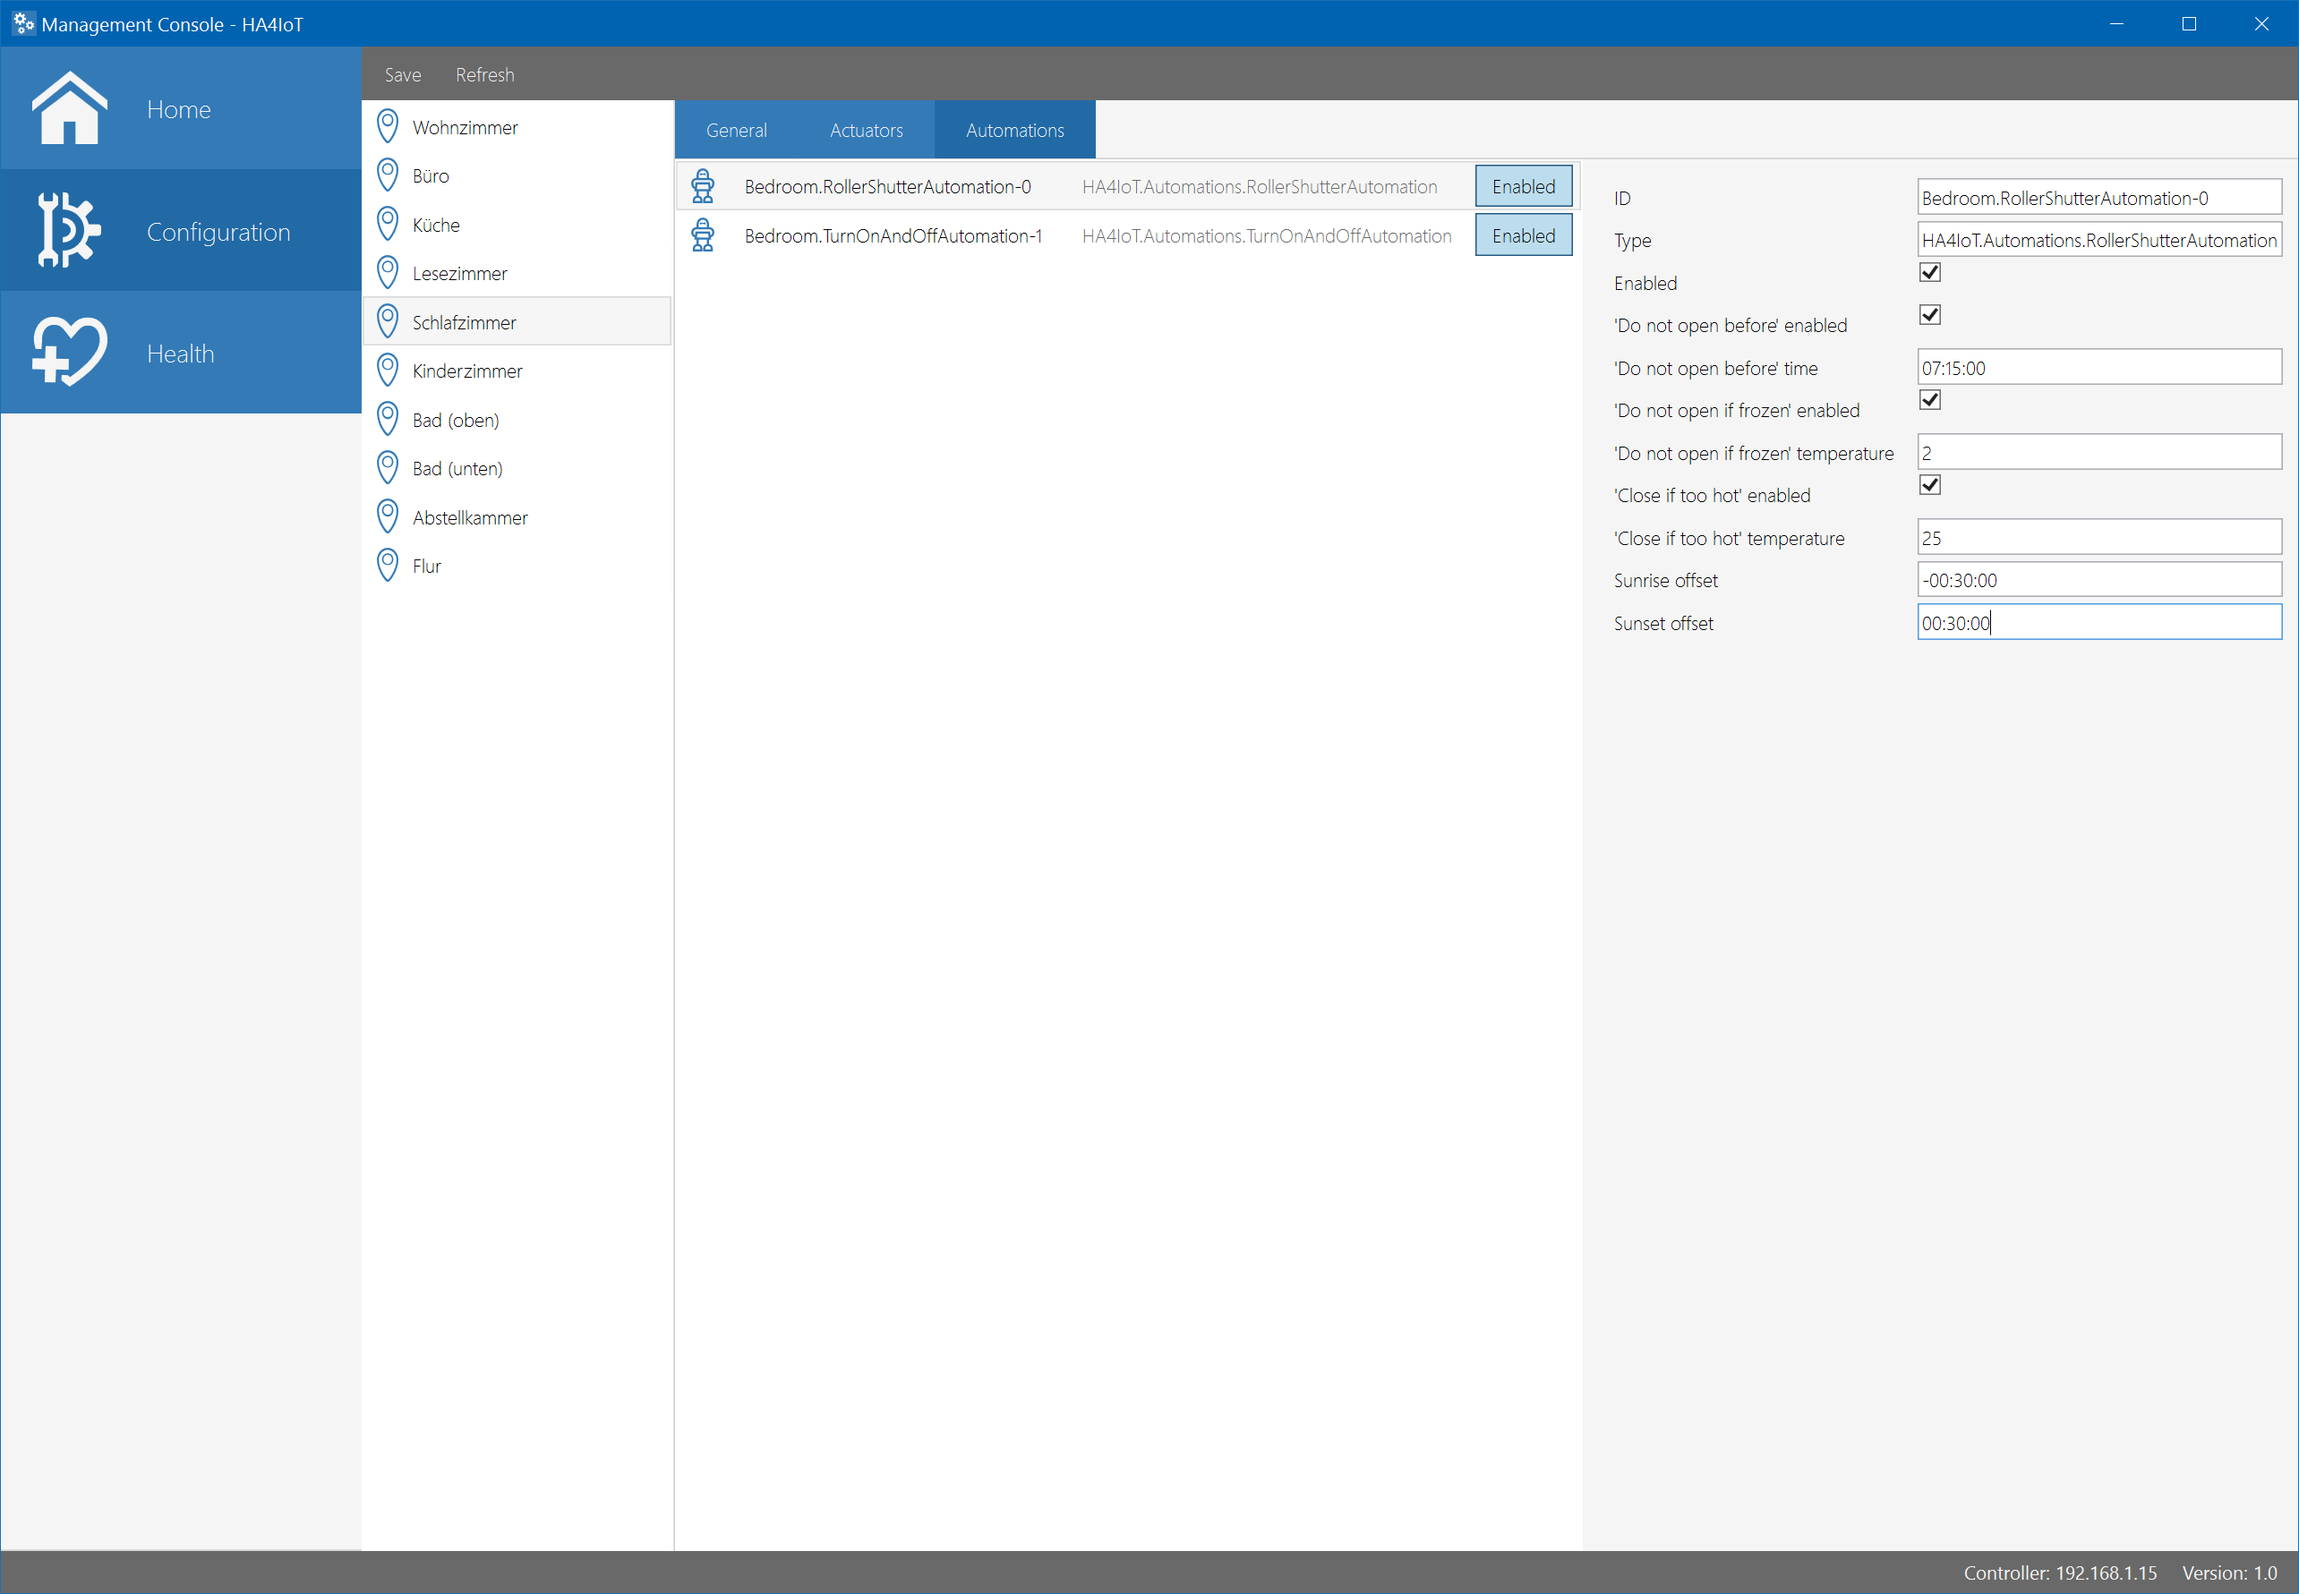
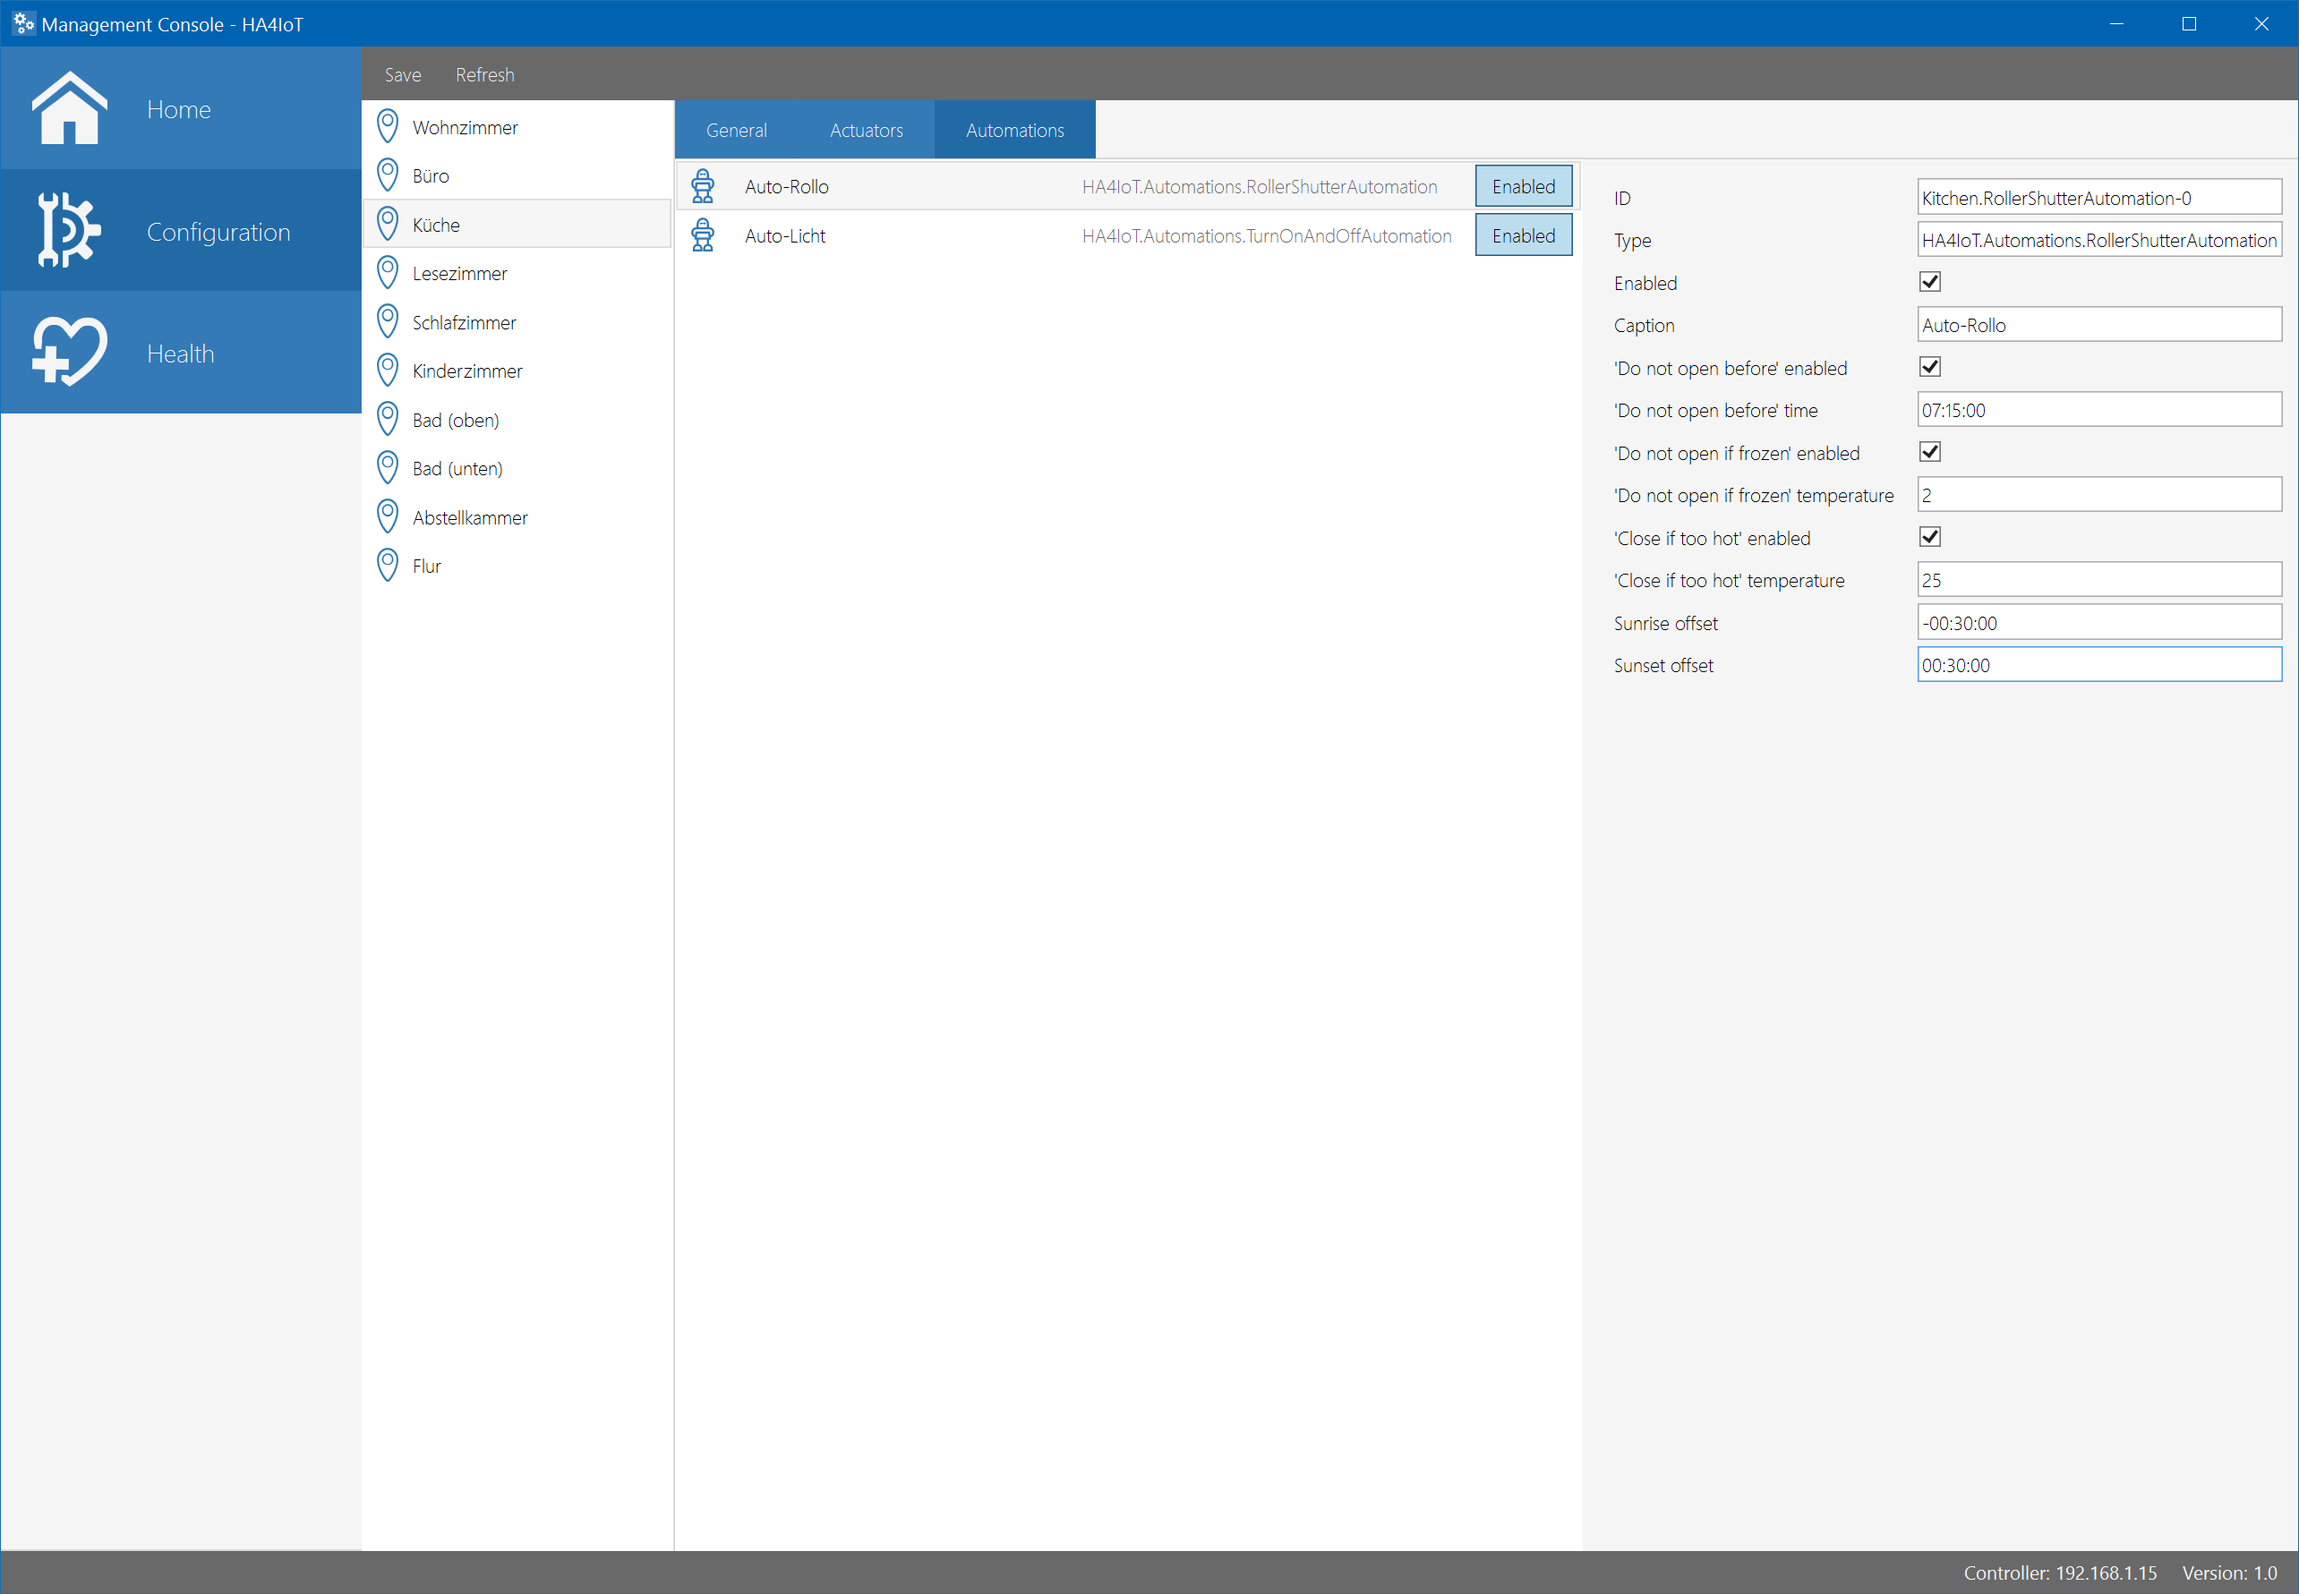
Update documentation files

diff --git a/Tools/HA4IoT.ManagementConsole/Configuration/Views/ConfigurationTabView.xaml b/Tools/HA4IoT.ManagementConsole/Configuration/Views/ConfigurationTabView.xaml
@@ -199,9 +199,10 @@
                                                               Fill="#FF337AB7"
                                                               Stretch="Uniform" />
                                                     </StackPanel>
+
                                                     <Label Grid.Column="1"
                                                            Margin="10,0,0,0"
-                                                           Content="{Binding Id,
+                                                           Content="{Binding Caption.Value,
                                                                              Mode=OneWay}" />
 
                                                     <Label Grid.Column="2"

diff --git a/Tools/HA4IoT.ManagementConsole/Configuration/AutomationParser.cs b/Tools/HA4IoT.ManagementConsole/Configuration/AutomationParser.cs
@@ -36,6 +36,7 @@ namespace HA4IoT.ManagementConsole.Configuration
             item.Settings.AddRange(GenerateGeneralSettings());
 
             item.IsEnabled = (BoolSettingVM)item.Settings.First(s => s.Key == "IsEnabled");
+            item.Caption = (StringSettingVM)item.Settings.First(s => s.Key == "Caption");
 
             switch (_type)
             {
@@ -51,22 +52,22 @@ namespace HA4IoT.ManagementConsole.Configuration
 
         private IEnumerable<SettingItemVM> GenerateRollerShutterAutoamtionSettings()
         {
-            yield return BoolSettingVM.CreateFrom(_appSettings, "DoNotOpenBeforeIsEnabled", true, "'Do not open before' enabled");
-            yield return TimeSpanSettingVM.CreateFrom(_appSettings, "DoNotOpenBeforeTime", TimeSpan.Parse("07:15:00"), "'Do not open before' time");
+            yield return BoolSettingVM.CreateFrom(_appSettings, "DoNotOpenBeforeIsEnabled", true, "'Do not open before' enabled").WithIsNoAppSetting();
+            yield return TimeSpanSettingVM.CreateFrom(_appSettings, "DoNotOpenBeforeTime", TimeSpan.Parse("07:15:00"), "'Do not open before' time").WithIsNoAppSetting();
 
-            yield return BoolSettingVM.CreateFrom(_appSettings, "DoNotOpenIfTooColdIsEnabled", true, "'Do not open if frozen' enabled");
-            yield return FloatSettingVM.CreateFrom(_appSettings, "DoNotOpenIfTooColdTemperature", 2, "'Do not open if frozen' temperature");
+            yield return BoolSettingVM.CreateFrom(_appSettings, "DoNotOpenIfTooColdIsEnabled", true, "'Do not open if frozen' enabled").WithIsNoAppSetting();
+            yield return FloatSettingVM.CreateFrom(_appSettings, "DoNotOpenIfTooColdTemperature", 2, "'Do not open if frozen' temperature").WithIsNoAppSetting();
 
-            yield return BoolSettingVM.CreateFrom(_appSettings, "AutoCloseIfTooHotIsEnabled", true, "'Close if too hot' enabled");
-            yield return FloatSettingVM.CreateFrom(_appSettings, "AutoCloseIfTooHotTemperaure", 25F, "'Close if too hot' temperature");
+            yield return BoolSettingVM.CreateFrom(_appSettings, "AutoCloseIfTooHotIsEnabled", true, "'Close if too hot' enabled").WithIsNoAppSetting();
+            yield return FloatSettingVM.CreateFrom(_appSettings, "AutoCloseIfTooHotTemperaure", 25F, "'Close if too hot' temperature").WithIsNoAppSetting();
 
             yield return
                 TimeSpanSettingVM.CreateFrom(_appSettings, "OpenOnSunriseOffset", TimeSpan.Parse("-00:30:00"),
-                    "Sunrise offset");
+                    "Sunrise offset").WithIsNoAppSetting();
 
             yield return
                 TimeSpanSettingVM.CreateFrom(_appSettings, "CloseOnSunsetOffset", TimeSpan.Parse("00:30:00"),
-                    "Sunset offset");
+                    "Sunset offset").WithIsNoAppSetting();
         }
 
         private IEnumerable<SettingItemVM> GenerateGeneralSettings()
@@ -74,6 +75,7 @@ namespace HA4IoT.ManagementConsole.Configuration
             yield return new StringSettingVM("Id", _source.Name, "ID").WithIsReadOnly();
             yield return new StringSettingVM("Type", _type, "Type").WithIsReadOnly();
             yield return BoolSettingVM.CreateFrom(_settings, "IsEnabled", true, "Enabled").WithIsNoAppSetting();
+            yield return StringSettingVM.CreateFrom(_appSettings, "Caption", _source.Name, "Caption");
         }
     }
 }

diff --git a/SDK/HA4IoT.Automations/AutomationSettings.cs b/SDK/HA4IoT.Automations/AutomationSettings.cs
@@ -1,5 +1,6 @@
 using System;
 using System.IO;
+using Windows.Data.Json;
 using Windows.Storage;
 using HA4IoT.Contracts.Automations;
 using HA4IoT.Contracts.Logging;
@@ -18,15 +19,18 @@ namespace HA4IoT.Automations
 
             AutomationId = automationId;
             IsEnabled = new Setting<bool>(true);
+            AppSettings = new Setting<JsonObject>(new JsonObject());
 
             new AutomationSettingsHttpApiDispatcher(this, httpApiController).ExposeToApi();
         }
 
         [HideFromToJsonObject]
-        public AutomationId AutomationId { get; private set; }
+        public AutomationId AutomationId { get; }
 
-        public Setting<bool> IsEnabled { get; private set; }
+        public Setting<bool> IsEnabled { get; }
 
+        public Setting<JsonObject> AppSettings { get; }
+         
         private static string GenerateFilename(AutomationId automationId)
         {
             return Path.Combine(ApplicationData.Current.LocalFolder.Path, "Automations", automationId.Value, "Settings.json");

diff --git a/Tools/HA4IoT.ManagementConsole/Configuration/ViewModels/AutomationItemVM.cs b/Tools/HA4IoT.ManagementConsole/Configuration/ViewModels/AutomationItemVM.cs
@@ -19,6 +19,8 @@ namespace HA4IoT.ManagementConsole.Configuration.ViewModels
 
         public BoolSettingVM IsEnabled { get; set; }
 
+        public StringSettingVM Caption { get; set; }
+        
         public JObject SerializeSettings()
         {
             var configuration = new JObject();
@@ -29,6 +31,11 @@ namespace HA4IoT.ManagementConsole.Configuration.ViewModels
 
             foreach (var setting in Settings)
             {
+                if (setting.IsReadOnly)
+                {
+                    continue;
+                }
+
                 if (setting.IsAppSetting)
                 {
                     appSettings[setting.Key] = setting.SerializeValue();

diff --git a/SDK/HA4IoT.Actuators/ActuatorSettings.cs b/SDK/HA4IoT.Actuators/ActuatorSettings.cs
@@ -20,11 +20,11 @@ namespace HA4IoT.Actuators
         }
 
         [HideFromToJsonObject]
-        public ActuatorId ActuatorId { get; private set; }
-
-        public ISetting<JsonObject> AppSettings { get; }
+        public ActuatorId ActuatorId { get; }
 
         public ISetting<bool> IsEnabled { get; }
+
+        public ISetting<JsonObject> AppSettings { get; }
 
         private static string GenerateFilename(ActuatorId actuatorId)
         {

diff --git a/Tools/HA4IoT.ManagementConsole/Configuration/AreaParser.cs b/Tools/HA4IoT.ManagementConsole/Configuration/AreaParser.cs
@@ -60,7 +60,7 @@ namespace HA4IoT.ManagementConsole.Configuration
                 automations.Add(new AutomationParser(automationProperty).Parse());
             }
 
-            automations.Sort((x, y) => string.Compare(x.Id, y.Id, StringComparison.Ordinal));
+            automations.Sort((x, y) => string.Compare(x.Caption.Value, y.Caption.Value, StringComparison.Ordinal));
 
             return automations;
         } 

diff --git a/Tools/HA4IoT.ManagementConsole/Configuration/ViewModels/ActuatorItemVM.cs b/Tools/HA4IoT.ManagementConsole/Configuration/ViewModels/ActuatorItemVM.cs
@@ -31,6 +31,11 @@ namespace HA4IoT.ManagementConsole.Configuration.ViewModels
 
             foreach (var setting in Settings)
             {
+                if (setting.IsReadOnly)
+                {
+                    continue;
+                }
+
                 if (setting.IsAppSetting)
                 {
                     appSettings[setting.Key] = setting.SerializeValue();
